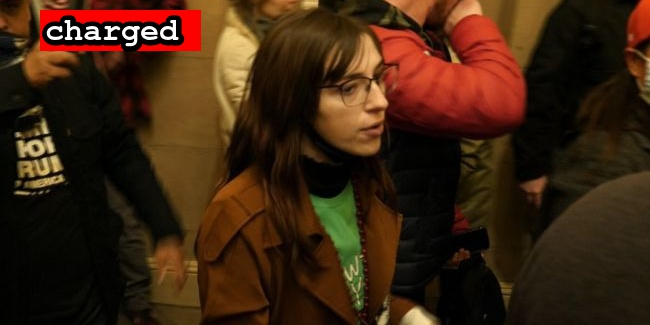
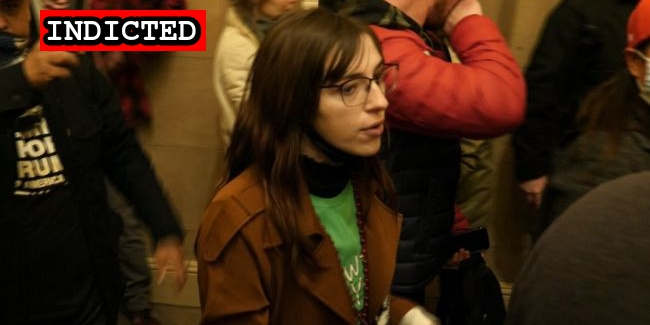
Williams Indictment

Changed region(s): [[0.0615, 0.0308, 0.3385, 0.1846]]

diff --git a/docs/_suspects/riley-williams.md b/docs/_suspects/riley-williams.md
@@ -4,10 +4,10 @@ lastName: Williams
 hashtag: GreenShirtStairmaster
 aka:
 residence: Pennsylvania
-status: Charged
+status: Indicted
 date: 2021-01-17
 charged: 2021-01-17
-indicted:
+indicted: 2021-10-06
 convicted:
 sentenced:
 dismissed:
@@ -40,3 +40,4 @@ sentence:
 - [News Report](https://www.npr.org/sections/insurrection-at-the-capitol/2021/01/18/957979421/fbi-seeking-woman-who-may-have-stolen-speaker-pelosis-laptop)
 - [Statement of Facts](https://www.justice.gov/opa/page/file/1357051/download)
 - [Complaint](https://www.justice.gov/opa/page/file/1357056/download)
+- [Indictment](https://s3.documentcloud.org/documents/21080178/10-6-21-us-v-riley-williams-indictment.pdf)

diff --git a/docs/_suspects/lonnie-coffman.md b/docs/_suspects/lonnie-coffman.md
@@ -8,11 +8,11 @@ status: Indicted
 date: 2021-01-07
 charged: 2021-01-07
 indicted: 2021-01-11
-convicted: 
-sentenced: 
-dismissed: 
+convicted:
+sentenced:
+dismissed:
 deceased:
-plea_hearing:
+plea_hearing: 2021-10-26
 sentencing:
 age: 70
 occupation:
@@ -36,6 +36,7 @@ videos:
 charges:
 sentence:
 ---
+
 - [News Report](https://www.montgomeryadvertiser.com/story/news/crime/2021/01/27/feds-seize-items-lonnie-coffman-falkville-home-capitol-riot-case/4281963001/)
 - [DOJ Press Release](https://www.justice.gov/opa/pr/thirteen-charged-federal-court-following-riot-united-states-capitol)
 - [Statement of Facts](https://www.justice.gov/opa/press-release/file/1351661/download)
